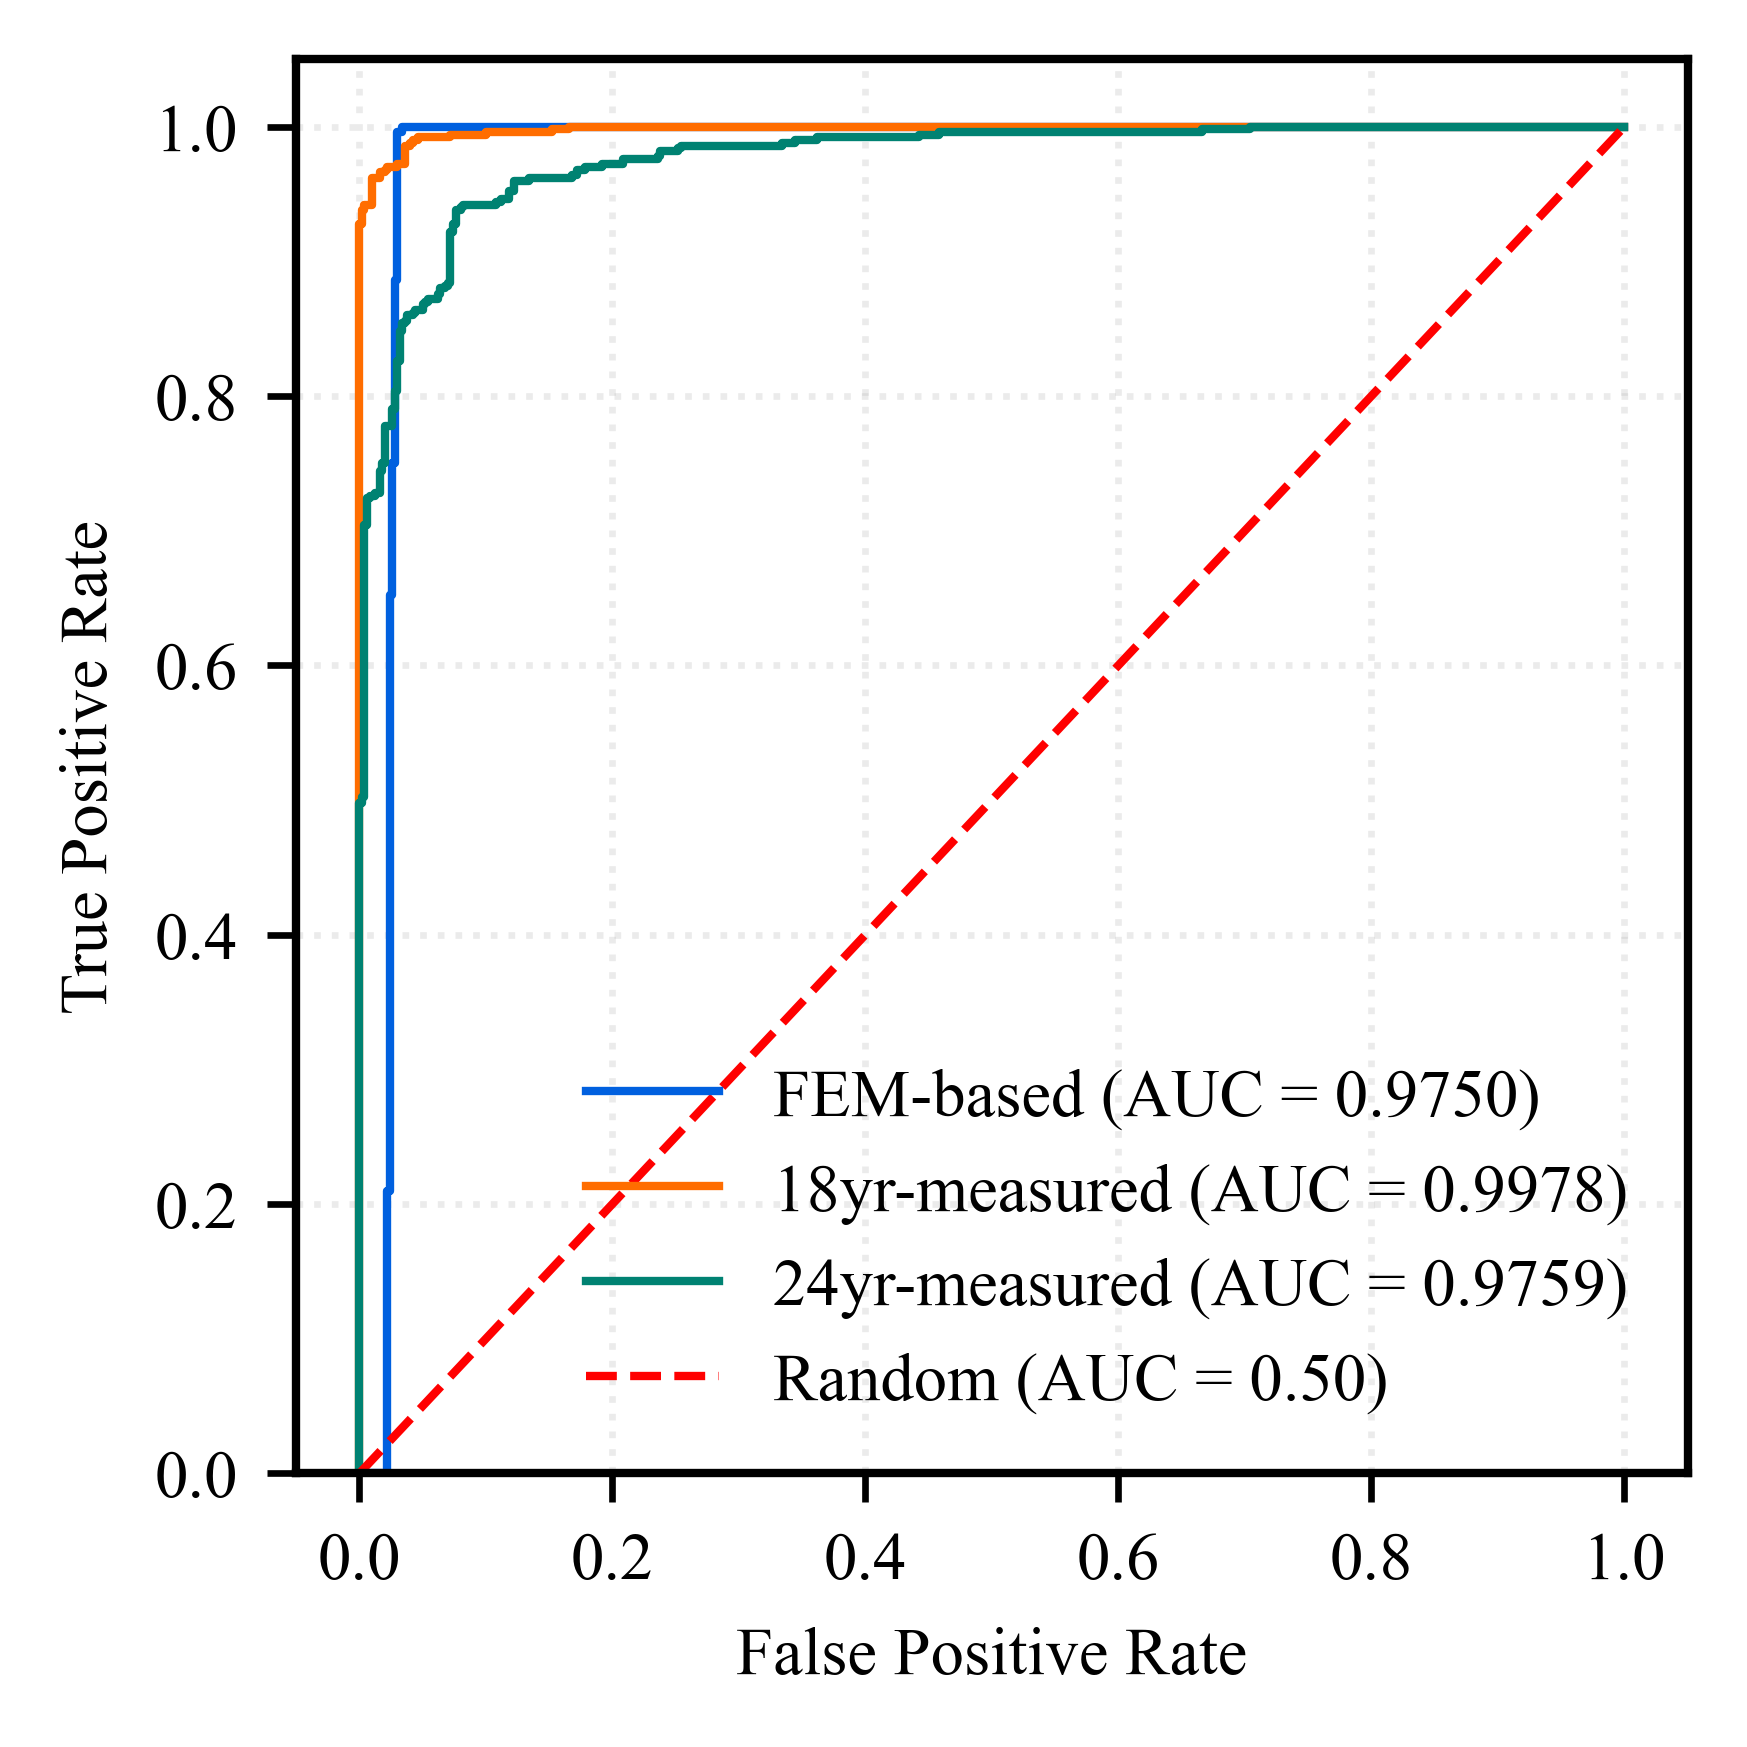
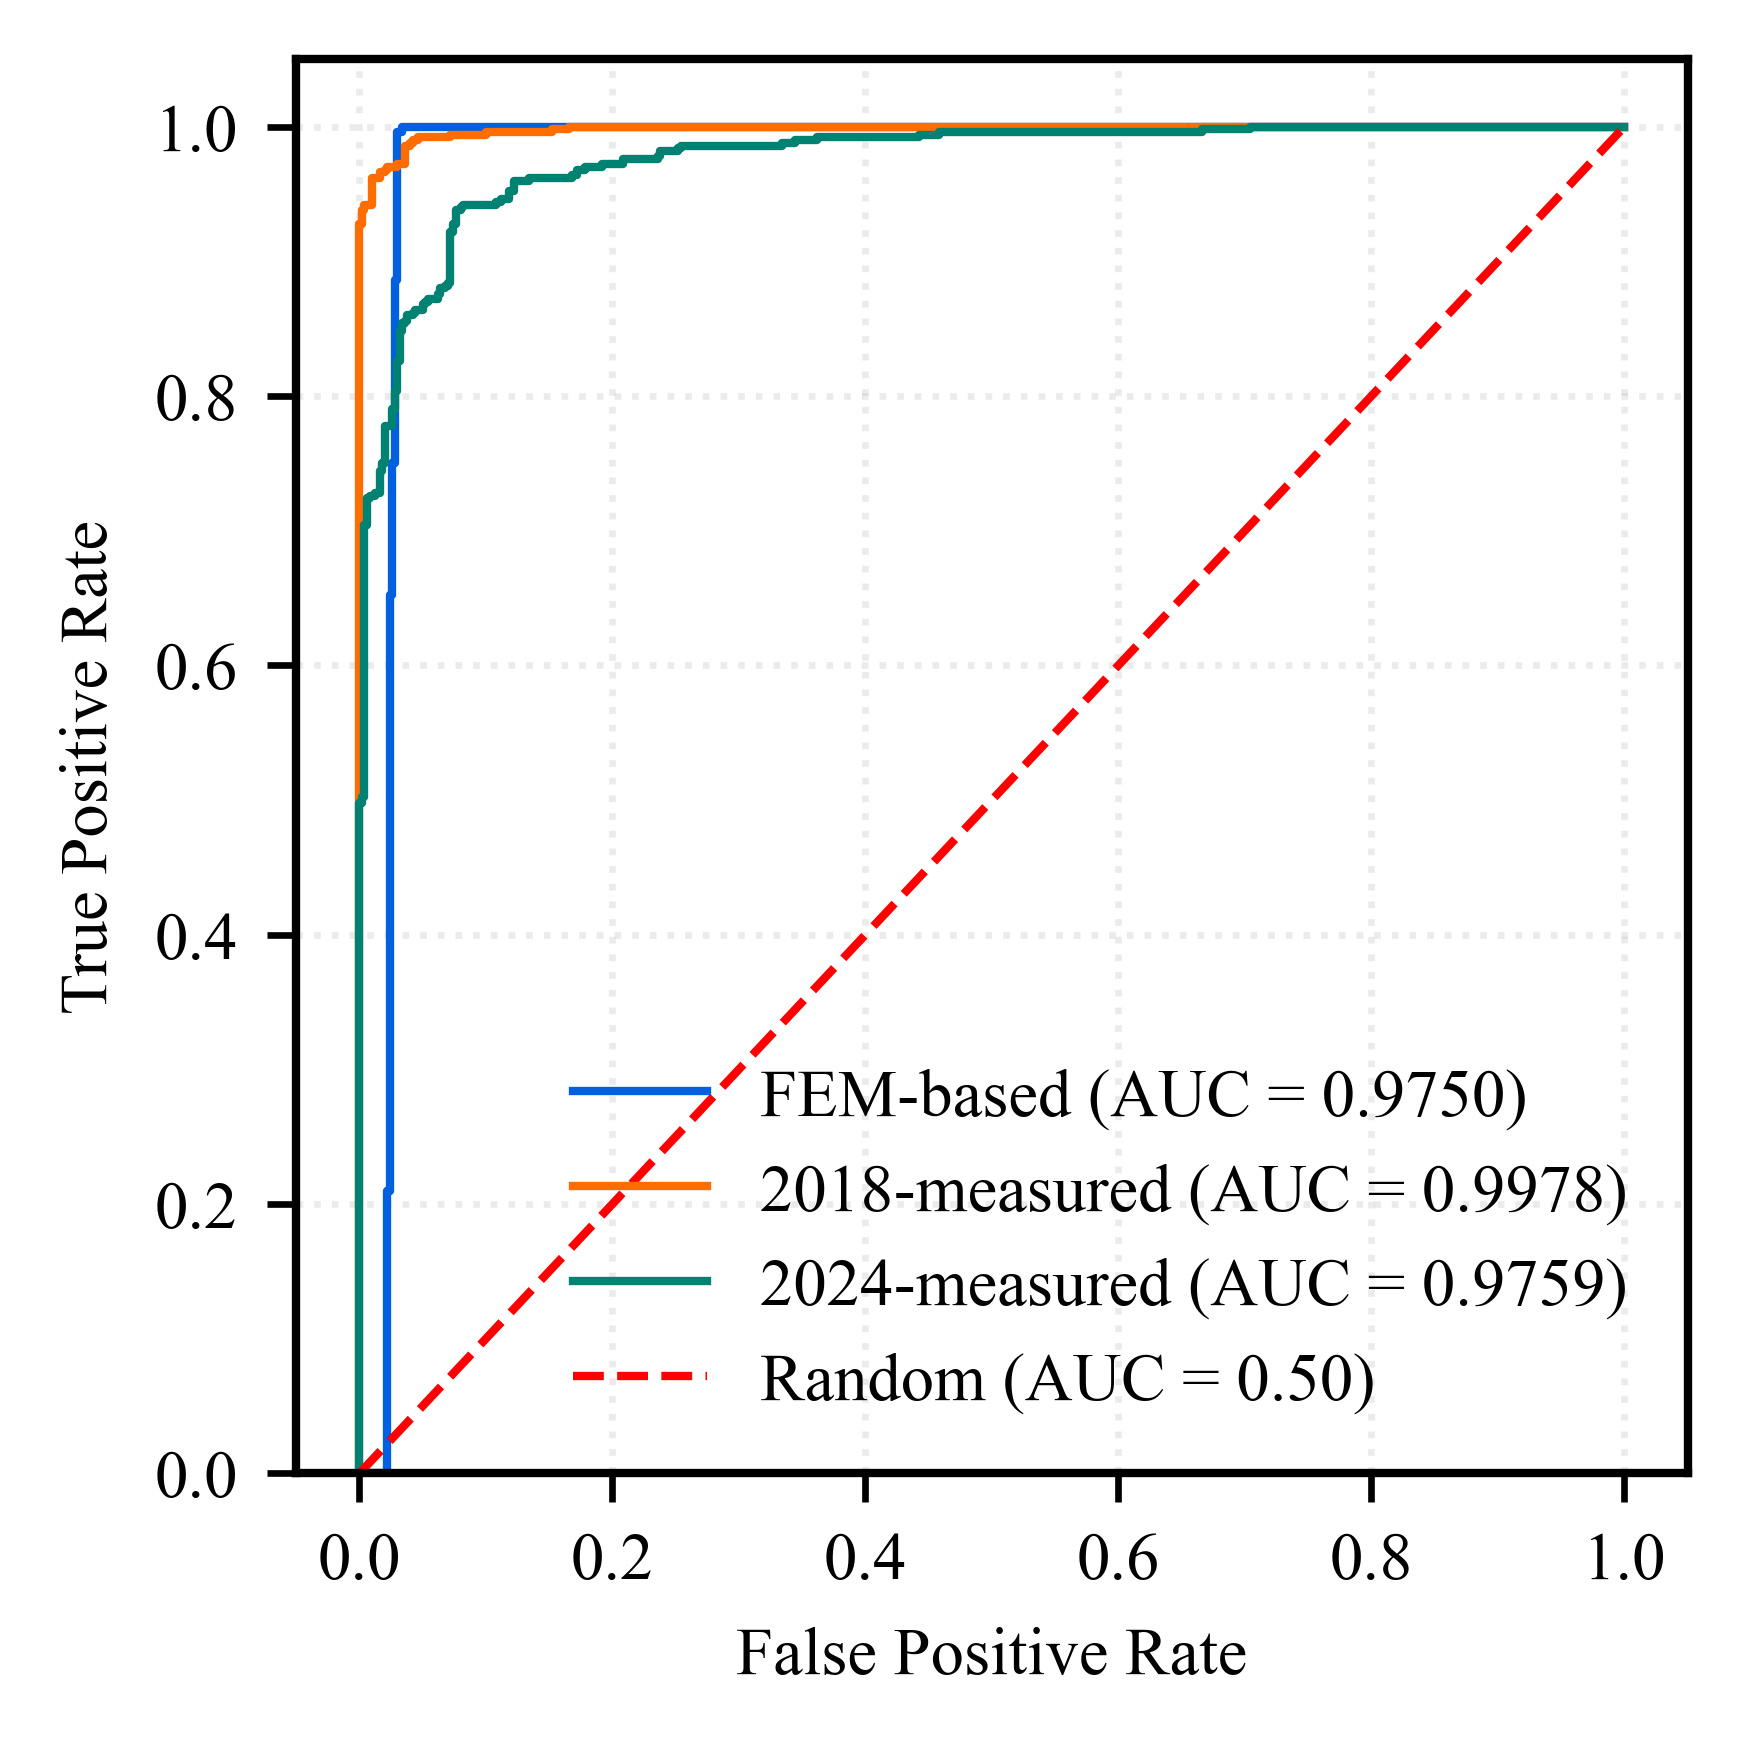
KNU

diff --git a/results/result_anomaly_scores.py b/results/result_anomaly_scores.py
@@ -45,8 +45,8 @@ LEGEND_MAP = {
     ("Recon",    18, 2): "Metal Noise vs. Pneumonia",
     ("Recon",    23, 2): "Device-B vs. Pneumonia",
     ("Distance",  0, 2): "FEM-based",
-    ("Distance", 18, 2): "18yr-measured",
-    ("Distance", 23, 2): "24yr-measured",
+    ("Distance", 18, 2): "2018-measured",
+    ("Distance", 23, 2): "2024-measured",
 }
 
 def _read_anomaly_csv(path: str) -> pd.DataFrame:
@@ -113,8 +113,8 @@ def plot_roc_curves(recon_path: str, dist_path: str, save_path: str):
 
 if __name__ == "__main__":
     recon_file = None
-    #recon_file = "./results/scores/csv/v3.2.4/s2(all)_scores_epoch30_recon.csv"
-    dist_file = "./results/scores/csv/v3.2.4/s2(all)_scores_epoch30_distance.csv"
-    output_file = "./results/scores/figure/v3.2.4/s2(all)_auc_roc_curves_final.png"
+    #recon_file = "./results/anomaly scores/csv/v3.2.4/s2(all)_scores_epoch30_recon.csv"
+    dist_file = "./results/anomaly scores/csv/v3.2.4/s2(all)_scores_epoch30_distance.csv"
+    output_file = "./results/anomaly scores/figure/v3.2.4/s2(all)_auc_roc_curves_final.png"
 
     plot_roc_curves(recon_path=recon_file, dist_path=dist_file, save_path=output_file)

diff --git a/results/result_umap.py b/results/result_umap.py
@@ -31,16 +31,16 @@ plt.rcParams.update({
 
 # (filename, subplot title) in the desired order
 MAP_CONFIGS = {
-    'enc_only': ('v3.0_resnet_ae/umap_s2(18)_encoder_epoch0.csv', '(a) Before DA'),
-    'ae_only': ('v3.0_resnet_ae/umap_s2(18)_encoder_epoch5.csv', '(b) Before DA'),
-    'da_after': ('v3.2.4/umap_s2(18)_encoder_epoch30.csv', '(c) After DA')
+    'enc_only': ('v3.0_resnet_ae/umap_s2(18)_encoder_epoch0.csv', '(a)'),
+    'ae_only': ('v3.0_resnet_ae/umap_s2(18)_encoder_epoch5.csv', '(b)'),
+    'da_after': ('v3.2.4/umap_s2(18)_encoder_epoch30.csv', '(c)')
 }
 COLOR_MAP  = {0: '#000000', 2: '#d62728', 18: '#1f77b4'}
 MARKER_MAP = {0: 'o', 2: 'x', 18: 's'}
 
 LEGEND_MAP = {
     0 : "FEM (Normal)",
-    18: "18yr-measured (Normal)",
+    18: "2018-measured (Normal)",
     2 : "FEM (Anomaly)",
 }
 
